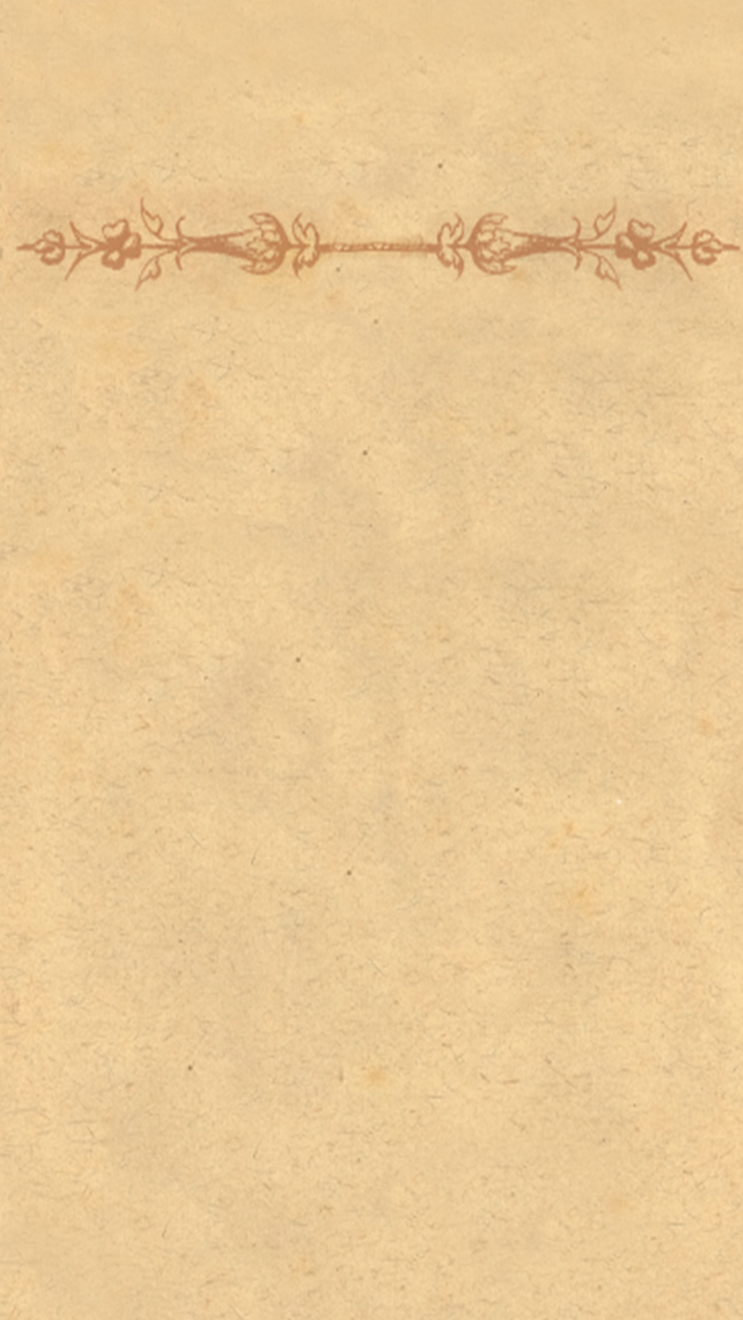
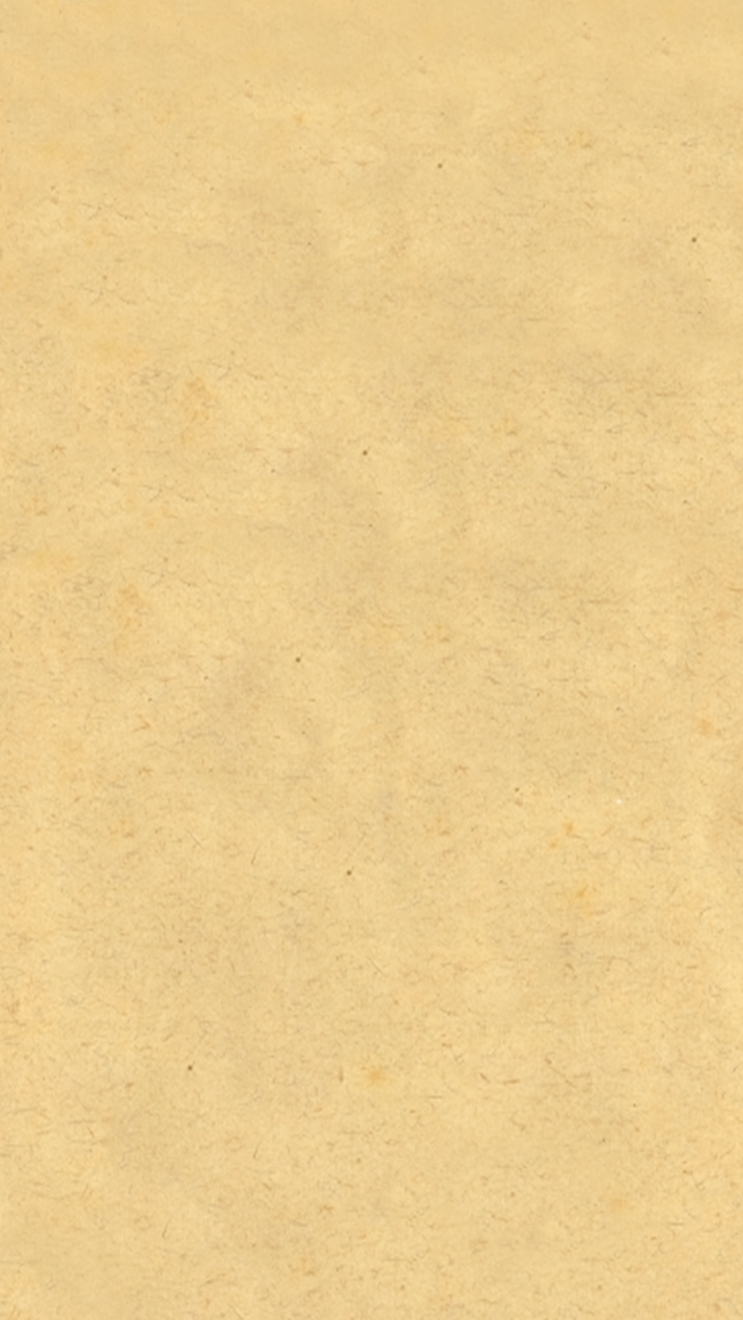
Screen sizes

Changed region(s): [[0.031, 0.1553, 0.9906, 0.2174]]

diff --git a/screens/Screen.js b/screens/Screen.js
@@ -23,11 +23,19 @@ const deviceWidth = Dimensions.get('window').width;
 const deviceHeight = Platform.OS === 'ios'
   ? Dimensions.get('window').height
   : require('react-native-extra-dimensions-android').get('REAL_WINDOW_HEIGHT');
-const fontSize = size => {
-  if (Platform.OS !== 'ios') return size;
-  if (size >= 30) return size - 8;
+const screenSizeFrom = height => {
+  if (height > 850) return 'XXL';
+  if (height > 800) return 'XL';
+  if (height > 750) return 'L';
+  if (height > 700) return 'M';
 
-  return size - 4;
+  return 'S';
+};
+const screenSize = screenSizeFrom(deviceHeight);
+const fontSize = size => {
+  if (size >= 30) return size - (Platform.OS === 'ios' ? 8 : 7);
+
+  return size - (Platform.OS === 'ios' ? 4 : 2);
 };
 
 const styles = StyleSheet.create({
@@ -40,6 +48,15 @@ const styles = StyleSheet.create({
   },
   transmutationTemplate: {
 
+  },
+  transmutationDivider: {
+    alignItems: 'center',
+    justifyContent: 'center',
+    top: -10,
+    width: '100%'
+  },
+  transmutationDividerImage: {
+    resizeMode: 'contain'
   },
   modal: {
 
@@ -121,10 +138,11 @@ const styles = StyleSheet.create({
   alchemistDisplayContainer: {
     flexDirection: 'row',
     height: 120,
-    width: '100%',
     justifyContent: 'space-between',
     marginTop: 10,
-    position: 'absolute'
+    position: 'absolute',
+    width: '100%',
+    zIndex: 2
   },
   alchemistDisplay: {
     alignItems: 'center',
@@ -148,7 +166,8 @@ const styles = StyleSheet.create({
   },
   ascend: {
     alignItems: 'center',
-    justifyContent: 'center'
+    justifyContent: 'center',
+    zIndex: 3
   },
   ascendImage: {
     height: 150,
@@ -156,7 +175,8 @@ const styles = StyleSheet.create({
   },
   levelUp: {
     alignItems: 'center',
-    justifyContent: 'center'
+    justifyContent: 'center',
+    zIndex: 3
   },
   levelUpImage: {
     height: 150,
@@ -178,11 +198,13 @@ const styles = StyleSheet.create({
     width: '35%'
   },
   transmutationContainer: {
-
+    height: 120,
+    width: 120,
+    zIndex: 4
   },
   transmutation: {
-    height: 90,
-    width: 90
+    height: '100%',
+    width: '100%'
   },
   mindTransmutationTree: {
     alignItems: 'flex-end',
@@ -192,8 +214,8 @@ const styles = StyleSheet.create({
   },
   bodyTransmutationTree: {
     alignItems: 'center',
-    justifyContent: 'space-between',
-    height: '90%'
+    height: '90%',
+    justifyContent: 'space-between'
   },
   transmutationRow: {
     flexDirection: 'row'
@@ -282,14 +304,16 @@ const styles = StyleSheet.create({
 
   },
   transmutationPage: {
-    padding: 10,
-    paddingTop: 20
+    paddingBottom: 0,
+    paddingLeft: 15,
+    paddingRight: 15,
+    paddingTop: Platform.OS === 'ios' ? 20 : 15
   },
   transmutationPageBackground: {
 
   },
   transmutationHeader: {
-    height: '10%'
+
   },
   transmutationTop: {
     flexDirection: 'row',
@@ -313,11 +337,11 @@ const styles = StyleSheet.create({
   },
   transmutationTitle: {
     alignItems: 'center',
-    top: -7
+    marginTop: 10
   },
   transmutationTitleText: {
     color: 'black',
-    fontSize: fontSize(54),
+    fontSize: fontSize(51),
     fontWeight: '600',
     textAlign: 'center'
   },
@@ -330,13 +354,13 @@ const styles = StyleSheet.create({
     width: 120
   },
   transmutationBody: {
-    flex: 1
+    flex: 1,
+    top: -15
   },
   transmutationInstructions: {
     color: 'black',
     fontSize: fontSize(32) - (Platform.OS === 'ios' ? 3 : 0),
-    textAlign: 'center',
-    top: -5
+    textAlign: 'center'
   },
   transmute: {
     alignItems: 'center',
@@ -1600,13 +1624,21 @@ class TransmutationTemplate extends React.PureComponent {
           <TransmutationHeader onBack={onBack} title={title}>
             {headerContent}
           </TransmutationHeader>
-          <View style={styles.transmutationIcon}>
-            <Image
-              style={styles.transmutationIconImage}
-              source={icon}
-            />
+          <ImageBackground
+            source={require('../assets/images/transmutation/divider.png')}
+            style={styles.transmutationDivider}
+            imageStyle={styles.transmutationDividerImage}
+          >
+            <View style={styles.transmutationIcon}>
+              <Image
+                style={styles.transmutationIconImage}
+                source={icon}
+              />
+            </View>
+          </ImageBackground>
+          <View style={styles.transmutationBody}>
+            <ScrollView style={styles.scrollView}>{children}</ScrollView>
           </View>
-          <View style={styles.transmutationBody}>{children}</View>
         </ImageBackground>
       </View>
     );
@@ -1620,9 +1652,7 @@ const Tips = ({icon, tips, onBack}) => {
       title={'Tips'}
       icon={icon}
     >
-      <ScrollView style={styles.scrollView}>
-        <Text style={styles.transmutationText}>{tips}</Text>
-      </ScrollView>
+      <Text style={styles.transmutationText}>{tips}</Text>
     </TransmutationTemplate>
   );
 };
@@ -1634,13 +1664,11 @@ const More = ({icon, content, references, onBack}) => {
       title={'More...'}
       icon={icon}
     >
-      <ScrollView style={styles.scrollView}>
-        <Text style={styles.transmutationText}>{content}</Text>
-        <View style={styles.referencesSection}>
-          <Text style={styles.referencesHeader}>References</Text>
-          <Text style={styles.transmutationText}>{references}</Text>
-        </View>
-      </ScrollView>
+      <Text style={styles.transmutationText}>{content}</Text>
+      <View style={styles.referencesSection}>
+        <Text style={styles.referencesHeader}>References</Text>
+        <Text style={styles.transmutationText}>{references}</Text>
+      </View>
     </TransmutationTemplate>
   );
 };

diff --git a/App.js b/App.js
@@ -1,5 +1,5 @@
 import React from 'react';
-import { StyleSheet, View } from 'react-native';
+import { StatusBar, StyleSheet, View } from 'react-native';
 
 import Screen from './screens/Screen';
 
@@ -7,6 +7,7 @@ export default class App extends React.Component {
   render() {
     return (
       <View style={styles.container}>
+        <StatusBar hidden />
         <Screen />
       </View>
     );
